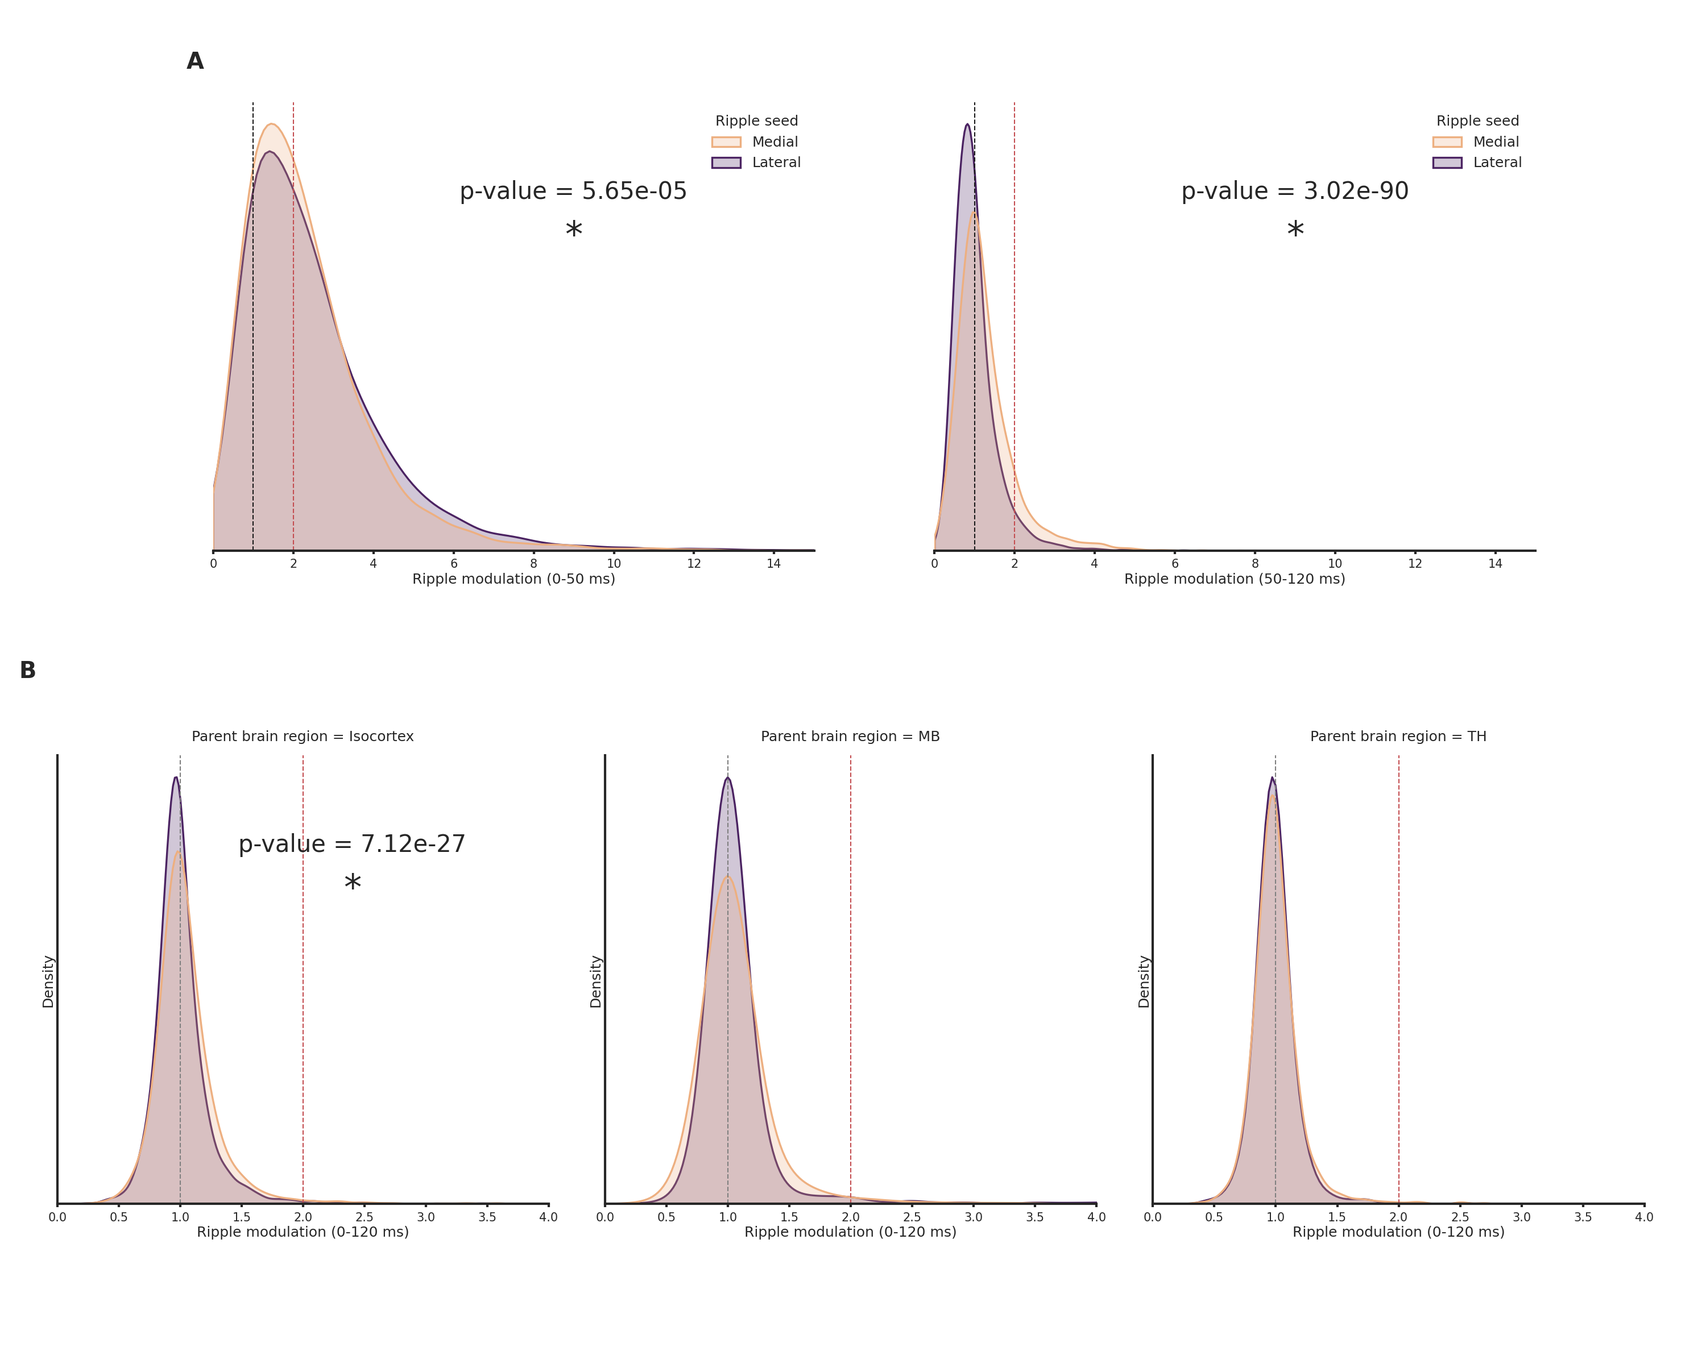
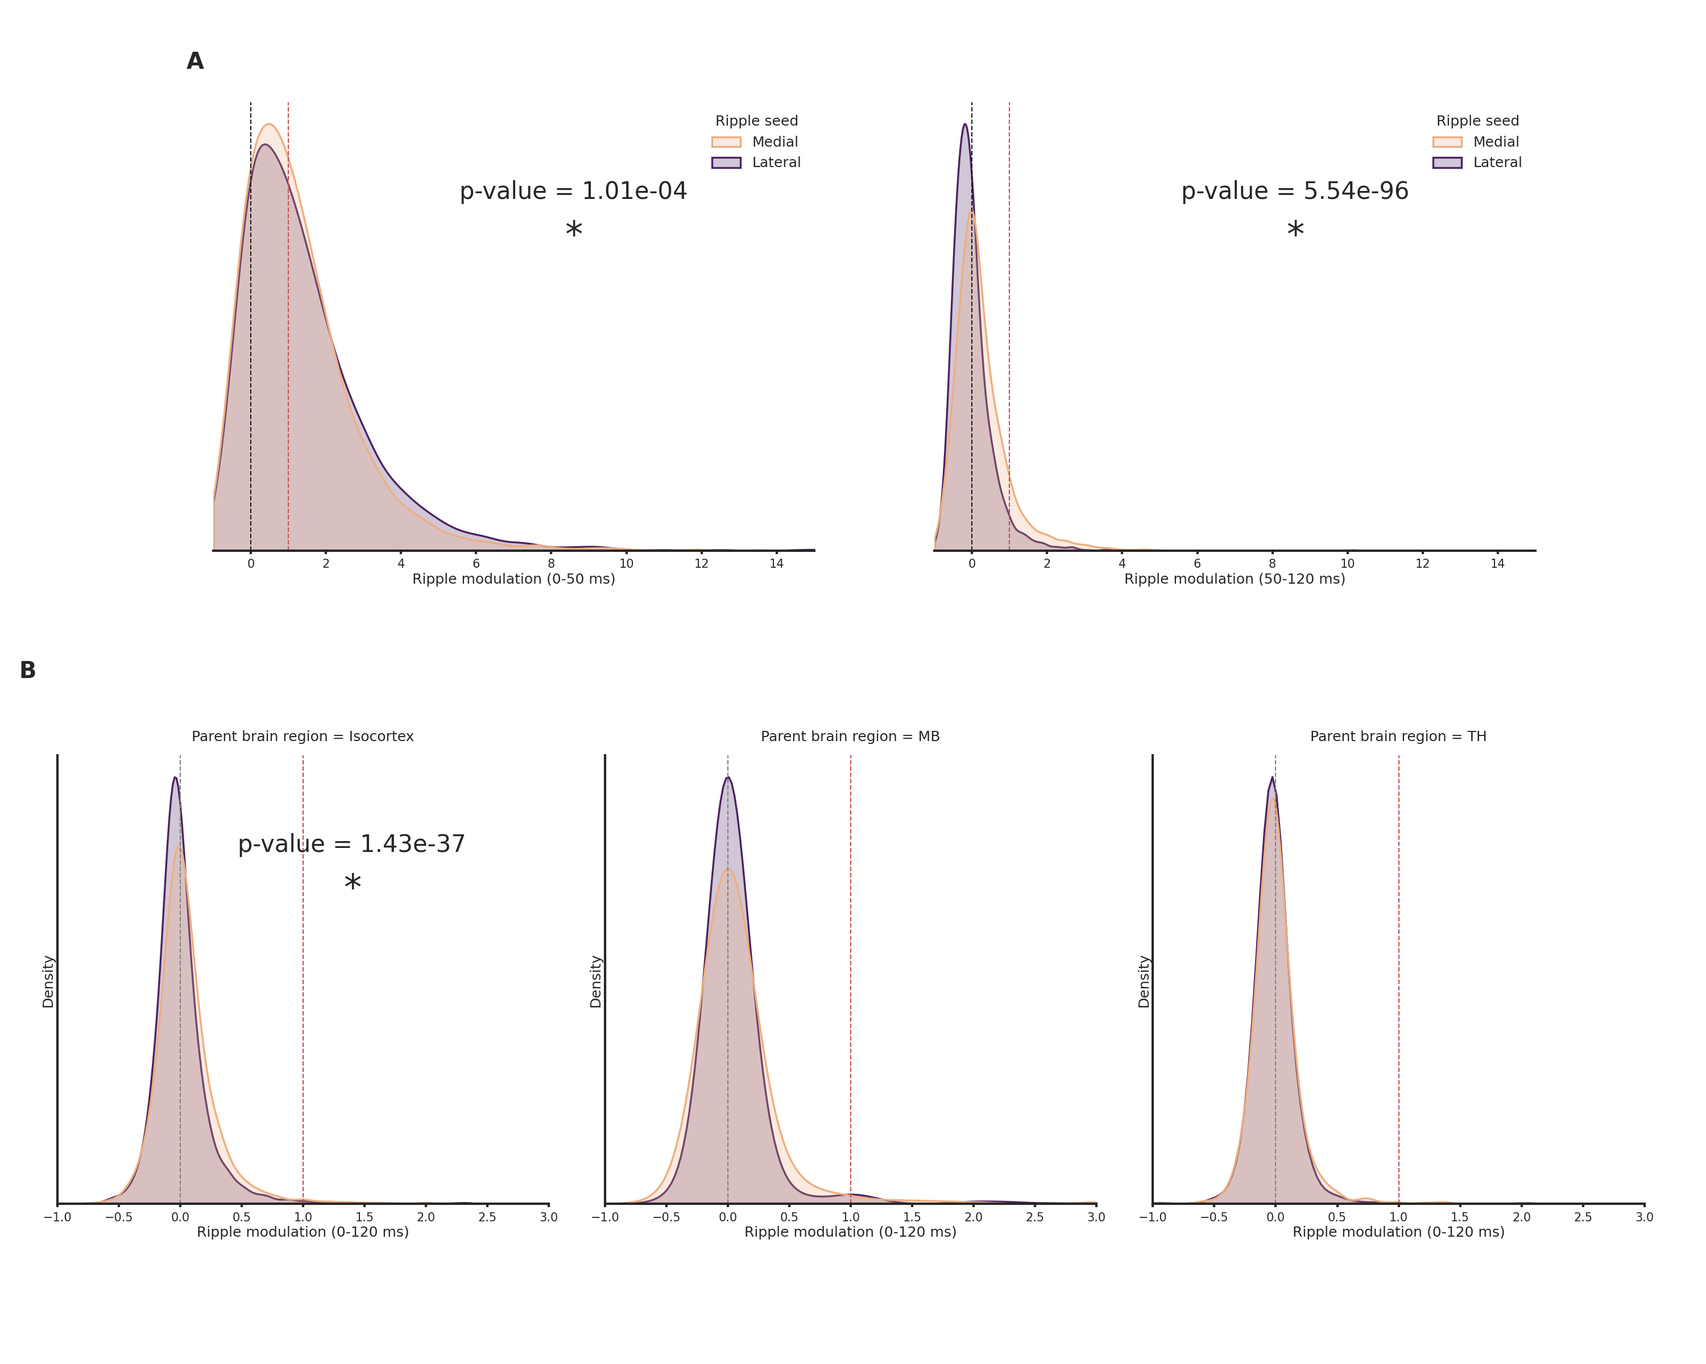
update figure 5 analysis, figure and supplementary figures

diff --git a/Calculations/Calculations_Figure_5.py b/Calculations/Calculations_Figure_5.py
@@ -20,16 +20,23 @@ summary_units_df = pd.concat(spikes_summary.values())
 
 neurons_per_area = summary_units_df.groupby('ecephys_structure_acronym').size()
 
-summary_units_df['Ripple modulation (0-50 ms) medial'] = summary_units_df['Firing rate (0-50 ms) medial'] / summary_units_df['Firing rate (100-0 ms) medial']
-summary_units_df['Ripple modulation (0-50 ms) lateral'] = summary_units_df['Firing rate (0-50 ms) lateral'] / summary_units_df['Firing rate (100-0 ms) lateral']
-summary_units_df['Ripple modulation (50-120 ms) medial'] = summary_units_df['Firing rate (50-120 ms) medial'] / summary_units_df['Firing rate (100-0 ms) medial']
-summary_units_df['Ripple modulation (50-120 ms) lateral'] = summary_units_df['Firing rate (50-120 ms) lateral'] / summary_units_df['Firing rate (100-0 ms) lateral']
-summary_units_df['Ripple modulation (0-120 ms) medial'] = summary_units_df['Firing rate (0-120 ms) medial'] / summary_units_df['Firing rate (100-0 ms) medial']
-summary_units_df['Ripple modulation (0-120 ms) lateral'] = summary_units_df['Firing rate (0-120 ms) lateral'] / summary_units_df['Firing rate (100-0 ms) lateral']
+summary_units_df['Ripple modulation (0-50 ms) medial'] = (summary_units_df['Firing rate (0-50 ms) medial'] - summary_units_df['Firing rate (120-0 ms) medial'] )/ \
+                                                            ( summary_units_df['Firing rate (120-0 ms) medial'])
+summary_units_df['Ripple modulation (0-50 ms) lateral'] = (summary_units_df['Firing rate (0-50 ms) lateral'] - summary_units_df['Firing rate (120-0 ms) lateral']) / \
+                                                            (summary_units_df['Firing rate (120-0 ms) lateral'])
+summary_units_df['Ripple modulation (50-120 ms) medial'] = (summary_units_df['Firing rate (50-120 ms) medial']- summary_units_df['Firing rate (120-0 ms) medial']) / \
+                                                               ( summary_units_df['Firing rate (120-0 ms) medial'])
+summary_units_df['Ripple modulation (50-120 ms) lateral'] = (summary_units_df['Firing rate (50-120 ms) lateral']- summary_units_df['Firing rate (120-0 ms) lateral']) / \
+                                                               ( summary_units_df['Firing rate (120-0 ms) lateral'])
+summary_units_df['Ripple modulation (0-120 ms) medial'] = (summary_units_df['Firing rate (0-120 ms) medial'] - summary_units_df['Firing rate (120-0 ms) medial'])/ \
+                                                            (summary_units_df['Firing rate (120-0 ms) medial'] )
+summary_units_df['Ripple modulation (0-120 ms) lateral'] = (summary_units_df['Firing rate (0-120 ms) lateral']-summary_units_df['Firing rate (120-0 ms) lateral'])/\
+                                                            ( summary_units_df['Firing rate (120-0 ms) lateral'])
 
-summary_units_df['Pre-ripple modulation medial'] = summary_units_df['Firing rate (20-0 ms) medial'] / summary_units_df['Firing rate (100-20 ms) medial']
-summary_units_df['Pre-ripple modulation lateral'] = summary_units_df['Firing rate (20-0 ms) lateral'] /  summary_units_df['Firing rate (100-20 ms) lateral']
-
+summary_units_df['Pre-ripple modulation medial'] = (summary_units_df['Firing rate (20-0 ms) medial'] - summary_units_df['Firing rate (120-20 ms) medial'] ) / \
+                                                (summary_units_df['Firing rate (120-20 ms) medial'] )
+summary_units_df['Pre-ripple modulation lateral'] = (summary_units_df['Firing rate (20-0 ms) lateral']-summary_units_df['Firing rate (120-20 ms) lateral']) /  \
+                                            (summary_units_df['Firing rate (120-20 ms) lateral'])
 
 
 summary_units_df_sub = summary_units_df[(summary_units_df['ecephys_structure_acronym'].isin(count_areas_recorded[count_areas_recorded>8].index))&
@@ -52,18 +59,24 @@ summary_units_df_sub.columns = summary_units_df_sub.columns.str.capitalize()
 
 summary_units_df_sub = summary_units_df_sub.rename(columns={"Left right ccf coordinate":"L-R", "Anterior posterior ccf coordinate":"A-P", "Dorsal ventral ccf coordinate":"D-V"})
 summary_units_df_sub = summary_units_df_sub.rename(columns={"Ecephys structure acronym":"Brain region", "Parent area":"Parent brain region"})
+
 summary_units_df_sub["M-L"] = summary_units_df_sub["L-R"] - 5691.510009765625
 
+
 def conditions_type_engagement(s):
-    if s['Ripple modulation (0-50 ms) medial']/s['Ripple modulation (0-50 ms) lateral']>2:
-        return 'Medial ripple engagement'
-    elif s['Ripple modulation (0-50 ms) lateral']/s['Ripple modulation (0-50 ms) medial']>2:
-        return  'Lateral ripple engagement'
+    if (s['Ripple modulation (0-50 ms) medial'] > .5) | (s['Ripple modulation (0-50 ms) lateral'] > .5):
+        if ((s['Ripple modulation (0-50 ms) medial']) / (s['Ripple modulation (0-50 ms) lateral'] + 1e-9)) > 2:
+            return 'Medial ripple engagement'
+        elif ((s['Ripple modulation (0-50 ms) lateral']) / (s['Ripple modulation (0-50 ms) medial'] + 1e-9)) > 2:
+            return 'Lateral ripple engagement'
+        else:
+            return 'No preference'
     else:
         return 'No preference'
 
+
 def conditions_ripple_engagement(s):
-    if (s['Ripple modulation (0-50 ms) medial']>2) | (s['Ripple modulation (0-50 ms) lateral']>2):
+    if (s['Ripple modulation (0-50 ms) medial'] > .5) | ((s['Ripple modulation (0-50 ms) lateral']) > .5):
         return 'Ripple engagement'
     else:
         return 'No engagement'
@@ -75,3 +88,4 @@ summary_units_df_sub['Ripple engagement'] = summary_units_df_sub[(summary_units_
 
 with open(f"{ output_folder_figures_calculations}/temp_data_figure_5.pkl", "wb") as fp:
     dill.dump(summary_units_df_sub, fp)
+

diff --git a/Figures/Figure_5/Figure_5.py b/Figures/Figure_5/Figure_5.py
@@ -22,20 +22,27 @@ import matplotlib as mpl
 plt.figure(1).set_size_inches(18/2.54, 18/2.54, forward=True)
 plt.figure(1).ax_dict["/alzheimer/Roberto/Allen_Institute/temp/Figure_5_brainrender_cells.png"].set_position([0.662764, 0.768361, 0.322524, 0.215934])
 plt.figure(1).axes[0].set_position([0.365154, 0.733812, 0.273050, 0.250483])
+plt.figure(1).axes[0].texts[0].set_position([0.600000, 0.473120])
+plt.figure(1).axes[0].texts[1].set(position=(0.6000000000000001, 0.5930220150660972), text='p-value = 1.55e-04', ha='center', va='center', fontsize=8.0)
 plt.figure(1).axes[1].set_position([0.045381, 0.733812, 0.278315, 0.250483])
 plt.figure(1).axes[2].set_position([0.683038, 0.592709, 0.302250, 0.166989])
 plt.figure(1).axes[3].set_position([0.683038, 0.396432, 0.302250, 0.166989])
 plt.figure(1).axes[3].get_legend()._set_loc((0.758021, 1.487929))
 plt.figure(1).axes[5].set_position([0.045381, 0.396432, 0.278315, 0.250483])
+plt.figure(1).axes[5].yaxis.labelpad = -3.536119
 plt.figure(1).axes[6].set_position([0.368530, 0.396432, 0.269674, 0.250483])
-plt.figure(1).axes[7].set_ylim(0.0, 3.0)
+plt.figure(1).axes[6].yaxis.labelpad = -3.536119
 plt.figure(1).axes[7].set_position([0.045381, 0.059053, 0.278315, 0.250483])
+plt.figure(1).axes[7].yaxis.labelpad = -3.536119
 plt.figure(1).axes[8].set_position([0.410592, 0.059053, 0.269674, 0.250483])
 plt.figure(1).axes[8].get_legend()._set_loc((0.364736, 0.762754))
 plt.figure(1).axes[9].set_position([0.683038, -0.000317, 0.327780, 0.327780])
-plt.figure(1).axes[9].title.set_position([0.500000, 0.928975])
-plt.figure(1).axes[9].texts[1].set_position([-0.263583, 0.219591])
 plt.figure(1).axes[9].title.set_position([0.500000, 0.959705])
+plt.figure(1).axes[9].texts[1].set_position([-0.263583, 0.219591])
+plt.figure(1).axes[9].texts[3].set(position=(0.45282411566654124, -0.3936372953250426), text='9.75 %', ha='center', va='center', fontsize=10.0, color='white', weight='bold')
+plt.figure(1).axes[9].texts[3].set_position([0.589701, -0.417222])
+plt.figure(1).axes[9].texts[5].set(position=(0.5874896594909168, -0.12188478162283675), text='6.51 %', ha='center', va='center', fontsize=10.0, color='white', weight='bold')
+plt.figure(1).axes[9].texts[5].set_position([0.678741, -0.121885])
 plt.figure(1).text(0.48758235782825293, 0.9648019132785688, 'HPF', transform=plt.figure(1).transFigure, color='#7ed04b', weight='bold')  # id=plt.figure(1).texts[0].new
 plt.figure(1).text(0.0049504950495049905, 0.980905233380481, 'A', transform=plt.figure(1).transFigure, weight='bold')  # id=plt.figure(1).texts[1].new
 plt.figure(1).text(0.34582743988684583, 0.980905233380481, 'B', transform=plt.figure(1).transFigure, weight='bold')  # id=plt.figure(1).texts[2].new
@@ -43,10 +50,8 @@ plt.figure(1).text(0.6584158415841584, 0.980905233380481, 'C', transform=plt.fig
 plt.figure(1).text(0.0049504950495049506, 0.6499292786421497, 'D', transform=plt.figure(1).transFigure, weight='bold')  # id=plt.figure(1).texts[4].new
 plt.figure(1).text(0.0049504950495049506, 0.32602545968882596, 'E', transform=plt.figure(1).transFigure, weight='bold')  # id=plt.figure(1).texts[5].new
 plt.figure(1).text(0.3458274398868458, 0.32602545968882596, 'G', transform=plt.figure(1).transFigure, weight='bold')  # id=plt.figure(1).texts[6].new
-plt.figure(1).texts[7].set_position([0.704069, 0.326025])
 #% end: automatic generated code from pylustrator
 #plt.show()
-
 
 if Adapt_for_Nature_style is True:
     Naturize()

diff --git a/Figures/Figure_5/Figure_5_scatter_ripple_modulated.py b/Figures/Figure_5/Figure_5_scatter_ripple_modulated.py
@@ -10,18 +10,17 @@ with open(f"{output_folder_figures_calculations}/temp_data_figure_5.pkl", 'rb') 
     summary_units_df_sub = dill.load(f)
 
 summary_units_df_sub["Firing rate (0-50 ms)"] = (summary_units_df_sub["Firing rate (0-50 ms) medial"]+summary_units_df_sub["Firing rate (0-50 ms) lateral"])/2
-summary_units_df_sub["Firing rate (100-0 ms)"] = (summary_units_df_sub["Firing rate (100-0 ms) medial"]+summary_units_df_sub["Firing rate (100-0 ms) lateral"])/2
+summary_units_df_sub["Firing rate (120-0 ms)"] = (summary_units_df_sub["Firing rate (120-0 ms) medial"]+summary_units_df_sub["Firing rate (120-0 ms) lateral"])/2
 
 palette_parent_areas = dict()
 for area in summary_units_df_sub["Parent brain region"].unique():
     palette_parent_areas[area] = '#' + ''.join(f'{i:02X}' for i in acronym_color_map[area]);
 
 
-
-g = sns.lmplot(data=summary_units_df_sub, x='Firing rate (0-50 ms)', y='Firing rate (100-0 ms)',
+g = sns.lmplot(data=summary_units_df_sub, x='Firing rate (0-50 ms)', y='Firing rate (120-0 ms)',
                hue='Parent brain region',
-               palette=palette_parent_areas, scatter_kws=dict(alpha=.5, s=5),
-               hue_order=['HPF', 'Isocortex', 'MB', 'TH'], height=5, aspect=1)
+               palette=palette_parent_areas, scatter_kws=dict(alpha=.3, s=3),
+               hue_order=['HPF', 'Isocortex', 'MB', 'TH'], height=5, aspect=1, legend=False)
 
 yg = {'HPF': .8, 'Isocortex': .85, 'MB': .9, 'TH': .95}
 
@@ -32,12 +31,12 @@ def annotate(data, **kws):
     # get the y-position from the dict
     y = yg[g]
 
-    r, p = sp.stats.pearsonr(data['Firing rate (0-50 ms)'], data['Firing rate (100-0 ms)'])
+    r, p = sp.stats.pearsonr(data['Firing rate (0-50 ms)'], data['Firing rate (120-0 ms)'])
     ax = plt.gca()
     if p == 0:
-        ax.text(.1, y, f'{g}: R²={r ** 2:.2f}, p<0.0005', transform=ax.transAxes, color=palette_parent_areas[g])
+        ax.text(.03, y, f'{g}: R²={r ** 2:.2f}, p<0.0005', fontsize=5,  transform=ax.transAxes, color=palette_parent_areas[g])
     else:
-        ax.text(.1, y, f'{g}: R²={r ** 2:.2f}, p={2:.2e}', transform=ax.transAxes, color=palette_parent_areas[g])
+        ax.text(.03, y, f'{g}: R²={r ** 2:.2f}, p={2:.2e}', fontsize=5, transform=ax.transAxes, color=palette_parent_areas[g])
 
 
 g.map_dataframe(annotate)

diff --git a/Utils/Utils.py b/Utils/Utils.py
@@ -203,9 +203,9 @@ def color_to_labels(axs, which_axes, minor_or_major, pos=1, *args, **kwargs):
 def plot_dist_ripple_mod(data, param, ax0):
     g = sns.kdeplot(data=data, x=param,
                     hue='Ripple seed', palette=palette_ML, ax=ax0, fill=True, gridsize=500, cut=0)
-    ax0.set_xlim((0, 15))
-    ax0.axvline(1,color= 'k', linestyle='--')
-    ax0.axvline(2,color= 'r', linestyle='--')
+    ax0.set_xlim((-1, 15))
+    ax0.axvline(0,color= 'k', linestyle='--')
+    ax0.axvline(1,color= 'r', linestyle='--')
     ax0.get_yaxis().set_visible(False)
 
     ax0.spines[['left']].set_visible(False)
@@ -232,7 +232,7 @@ def plot_dist_ripple_mod(data, param, ax0):
                         transform=ax0.transAxes,
                         fontsize=10, ha='center', va='center');
 
-def point_plot_modulation_ripples(data, dv, parent_area, order, filter_spiking, axs, ylabel, ylim = [.5,3], palette=palette_HPF):
+def point_plot_modulation_ripples(data, dv, parent_area, order, filter_spiking, axs, ylabel, ylim = [-.5,2], palette=palette_HPF):
 
     _ = data[(filter_spiking) & (data['Parent brain region']==parent_area )].reset_index()[['Firing rate','unit_id','M-L',
                                                                                                                     'Session id', 'Brain region', dv + ' medial', dv + ' lateral']]
@@ -241,7 +241,7 @@ def point_plot_modulation_ripples(data, dv, parent_area, order, filter_spiking, 
 
 
     ax = sns.pointplot(data=_, x='Brain region', y=dv, hue='Type', dodge=.5, errorbar='se',join=False,  palette=palette_ML, ax=axs, capsize=.2, order=order)
-    ax.axhline(1,color= 'k', linestyle='--')
+    ax.axhline(0, color='k', linestyle='--')
     color_to_labels_custom_palette(ax, 'x', 'major', palette, 1)
     plt.xticks(rotation=45, ha='center')
     ax.set_ylim(ylim)

diff --git a/Figures/Supplementary/Supplementary_Figure_pieplots_preferred_modulation.py b/Figures/Supplementary/Supplementary_Figure_pieplots_preferred_modulation.py
@@ -18,7 +18,7 @@ fig, axs = plt.subplots(1,5)
 axs = axs.ravel()
 
 def my_autopct(pct):
-    return ('%.2f'  % pct + " %") if pct > 20 else ''
+    return ('%.2f'  % pct + " %") if pct > 5 else ''
 
 
 for q, area in zip(range(5), data.index.get_level_values('Brain region').unique()):
@@ -28,8 +28,16 @@ for q, area in zip(range(5), data.index.get_level_values('Brain region').unique(
     plt.setp(autopcts, **{'color':'white', 'weight':'bold', 'fontsize':3.5})
 
     axs[q].xaxis.set_label_position('top')
-    axs[q].set_title('Ripple type engagement', fontsize=3)
+    axs[q].set_title(area, fontsize=3)
 
+#% start: automatic generated code from pylustrator
+plt.figure(1).ax_dict = {ax.get_label(): ax for ax in plt.figure(1).axes}
+import matplotlib as mpl
+plt.figure(1).axes[0].texts[3].set_position([0.583121, -0.428003])
+plt.figure(1).axes[1].texts[3].set_position([0.593053, -0.325041])
+plt.figure(1).axes[3].texts[3].set_position([0.696500, -0.214948])
+plt.figure(1).axes[4].texts[3].set_position([0.597037, -0.259074])
+#% end: automatic generated code from pylustrator
 #plt.show()
 
 plt.savefig(f"{output_folder_supplementary}/Supplementary_Figure_18", dpi=300)

diff --git a/Figures/Supplementary/Panel_scatterplot_ripple_mod_parent_areas_lateral.py b/Figures/Supplementary/Panel_scatterplot_ripple_mod_parent_areas_lateral.py
@@ -17,7 +17,7 @@ for area in summary_units_df_sub['Parent brain region'].unique():
 
 g = sns.FacetGrid(summary_units_df_sub, col='Parent brain region', hue='Parent brain region',
                   palette=palette_parent_areas, col_order=['HPF', 'Isocortex', 'MB', 'TH'])
-g.map_dataframe(sns.regplot, x='Firing rate (0-120 ms) lateral', y='Firing rate (100-0 ms) lateral',  scatter_kws=dict(s=5, alpha=.5))
+g.map_dataframe(sns.regplot, x='Firing rate (0-120 ms) lateral', y='Firing rate (120-0 ms) lateral',  scatter_kws=dict(s=3, alpha=.3))
 g.map_dataframe(lambda data, **kws: plt.axline((0, 0), slope=1, alpha=.5, linestyle='--', color='k'))
 
 
@@ -27,7 +27,7 @@ def annotate(data, **kws):
     # get the y-position from the dict
     y = .8
 
-    r, p = sp.stats.pearsonr(data['Firing rate (0-120 ms) lateral'], data['Firing rate (100-0 ms) lateral'])
+    r, p = sp.stats.pearsonr(data['Firing rate (0-120 ms) lateral'], data['Firing rate (120-0 ms) lateral'])
     ax = plt.gca()
     if p == 0:
         ax.text(.1, y, f'{g}: R²={r ** 2:.2f}, p<0.0005', transform=ax.transAxes, color=palette_parent_areas[g])

diff --git a/Figures/Supplementary/Panel_scatterplot_ripple_mod_parent_areas_medial.py b/Figures/Supplementary/Panel_scatterplot_ripple_mod_parent_areas_medial.py
@@ -17,7 +17,7 @@ for area in summary_units_df_sub['Parent brain region'].unique():
 
 g = sns.FacetGrid(summary_units_df_sub, col='Parent brain region', hue='Parent brain region',
                   palette=palette_parent_areas, col_order=['HPF', 'Isocortex', 'MB', 'TH'])
-g.map_dataframe(sns.regplot, x='Firing rate (0-120 ms) medial', y='Firing rate (100-0 ms) medial', scatter_kws=dict(s=5, alpha=.5))
+g.map_dataframe(sns.regplot, x='Firing rate (0-120 ms) medial', y='Firing rate (120-0 ms) medial', scatter_kws=dict(s=1, alpha=.1))
 g.map_dataframe(lambda data, **kws: plt.axline((0, 0), slope=1, alpha=.5, linestyle='--', color='k'))
 
 
@@ -27,7 +27,7 @@ def annotate(data, **kws):
     # get the y-position from the dict
     y = .8
 
-    r, p = sp.stats.pearsonr(data['Firing rate (0-120 ms) medial'], data['Firing rate (100-0 ms) medial'])
+    r, p = sp.stats.pearsonr(data['Firing rate (0-120 ms) medial'], data['Firing rate (120-0 ms) medial'])
     ax = plt.gca()
     if p == 0:
         ax.text(.1, y, f'{g}: R²={r ** 2:.2f}, p<0.0005', transform=ax.transAxes, color=palette_parent_areas[g])

diff --git a/Figures/Supplementary/Panel_kdeplot_ripple_mod_parent_areas.py b/Figures/Supplementary/Panel_kdeplot_ripple_mod_parent_areas.py
@@ -44,8 +44,8 @@ _['Ripple seed'] = _["Ripple seed"].str.capitalize()
 param = 'Ripple modulation (0-120 ms)'
 g = sns.FacetGrid(_[_['Parent brain region']!='HPF'], col='Parent brain region', sharex=False, sharey=False, col_order=['Isocortex', 'MB', 'TH'])
 g.map_dataframe(sns.kdeplot, x='Ripple modulation (0-120 ms)', hue='Ripple seed', palette=palette_ML, fill=True, gridsize=500)
-g.refline(x=1)
-g.refline(x=2, color='r')
-g.set(xlim=(0, 4))
+g.refline(x=0)
+g.refline(x=1, color='r')
+g.set(xlim=(-1, 3))
 g.set(yticks=[])
 g.map_dataframe(func_annotate)

diff --git a/Figures/Figure_5/Figure_5_preripple modulation_per_HPF_area.py b/Figures/Figure_5/Figure_5_preripple modulation_per_HPF_area.py
@@ -19,6 +19,7 @@ order= ['CA1',  'CA3', 'DG', 'ProS', 'SUB']
 dv = 'Pre-ripple modulation'
 ylabel='Pre-ripple modulation (20-0ms)'
 filter_spiking = summary_units_df_sub['Firing rate (20-0 ms) medial']>0.025
-point_plot_modulation_ripples(summary_units_df_sub, dv,parent_area,order,filter_spiking, axs, ylabel)
+ylim = [-.25, .5]
+point_plot_modulation_ripples(summary_units_df_sub, dv,parent_area,order,filter_spiking, axs, ylabel, ylim)
 
 plt.show()

diff --git a/Figures/Figure_5/Figure_5_ripple_specific_modulation_pie.py b/Figures/Figure_5/Figure_5_ripple_specific_modulation_pie.py
@@ -19,7 +19,7 @@ _ = pd.DataFrame(summary_units_df_sub[(summary_units_df_sub['Firing rate (0-120 
 
 
 def my_autopct(pct):
-    return ('%.2f' % pct + " %") if pct > 20 else ''
+    return ('%.2f' % pct + " %") if pct > 5 else ''
 
 fig, ax = plt.subplots()
 _, _, autopcts = ax.pie(_.values.squeeze(),colors=[palette_ML[key] for key in _.index], autopct=my_autopct)

diff --git a/Figures/Supplementary/Supplementary_Figure_ripple_mod_pointplot_areas.py b/Figures/Supplementary/Supplementary_Figure_ripple_mod_pointplot_areas.py
@@ -17,7 +17,7 @@ fig, axs = plt.subplots(3, 2, figsize=(10,15))
 
 parent_area='Isocortex'
 order= ['VIS', 'VISam', 'VISpm', 'VISp', 'VISl', 'VISrl', 'VISal']
-ylim= [0.5,1.5]
+ylim= [-0.25,0.5]
 dv = 'Ripple modulation (0-50 ms)'
 ylabel = 'Early ripple modulation (0-50 ms)'
 filter_spiking = summary_units_df_sub['Firing rate (0-120 ms) medial']>0.025

diff --git a/Figures/Supplementary/Supplementary_Figure_preripple_mod_pointplot_areas.py b/Figures/Supplementary/Supplementary_Figure_preripple_mod_pointplot_areas.py
@@ -15,7 +15,7 @@ for area in summary_units_df_sub['Brain region'].unique():
     palette_areas[area] = '#' + ''.join(f'{i:02X}' for i in acronym_color_map[area]);
 fig, axs = plt.subplots(1,3,  figsize=(15,5))
 
-ylim = [.5, 1.5]
+ylim = [-.25, .5]
 parent_area='Isocortex'
 order= ['VIS', 'VISam', 'VISpm', 'VISp', 'VISl', 'VISrl', 'VISal']
 
